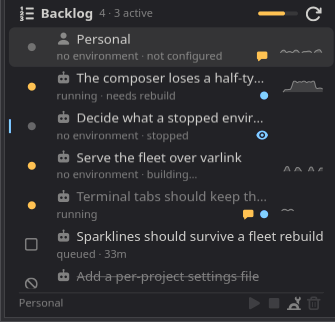
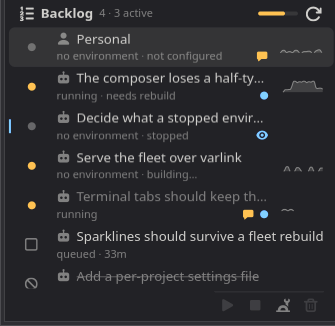
The intervention bar is four square buttons, and one check shows them all
Two refinements from watching it (David, 2026-09-09).

**The bar is one row of narrow square buttons, nothing else.** No subject
line and no close box: the checks and the selection are on screen
directly above it, so a label restating them spends a row of a panel that
has none to spare, and unchecking is how the bar goes away. Square rather
than the header's circles, because four of them sitting together are a
toolbar, and a row of circles reads as four separate controls.

**Checking one row shows the boxes on all of them.** The list is either
in a checking mood or it is not; showing a box only where it was checked
made the other rows read as unavailable when any of them can be checked
too. `sync_check_slots` is the resting state and runs after every render,
which is what the first attempt was missing — the probe showed one
checkbox and five dots.

The slot list is cleared with the rows it belongs to, or it would flip
stacks that are no longer on screen and grow once per render for the life
of the window.

diff --git a/crates/taste-app/src/backlog.rs b/crates/taste-app/src/backlog.rs
@@ -763,10 +763,16 @@ pub struct BacklogPanel {
     /// it can only ever mean one row, and an intervention that wants three
     /// environments needs somewhere else to say so.
     checked: RefCell<std::collections::HashSet<String>>,
-    /// The bottom-anchored bar the interventions live on, and the line on
-    /// it saying what they will act on.
+    /// The bottom-anchored bar the interventions live on.
     intervention_bar: gtk::Box,
-    intervention_subject: gtk::Label,
+    /// Every row's status/checkbox slot, rebuilt with the rows.
+    ///
+    /// Held so that checking ONE row can show the boxes on all of them:
+    /// once the list is in a checking mood it says so everywhere, or the
+    /// unchecked rows read as unavailable (David, 2026-09-09: "when one
+    /// env/issue is checked, the whole set switches to showing the check
+    /// boxes, whether checked or not").
+    check_slots: RefCell<Vec<gtk::Stack>>,
     start_button: gtk::Button,
     stop_button: gtk::Button,
     rebuild_button: gtk::Button,
@@ -1006,28 +1012,29 @@ impl BacklogPanel {
         // thing directly under it. Hidden is the resting state, so the
         // panel gives the row list every pixel until an intervention is
         // actually on the table.
-        let intervention_subject = gtk::Label::builder()
-            .xalign(0.0)
-            .hexpand(true)
-            .ellipsize(gtk::pango::EllipsizeMode::End)
-            .css_classes(["caption", "dim-label"])
-            .build()
-            .full_text_on_hover();
+        // One row of narrow square buttons and nothing else (David,
+        // 2026-09-09: "just have a single row with icon-based
+        // interventions … no close box or separate row with the selection
+        // count"). No subject line: the checks and the selection are on
+        // screen directly above, so a label restating them spends a row of
+        // a panel that has none to spare — and no close box, because
+        // unchecking is how this goes away.
         let intervention_bar = gtk::Box::builder()
             .orientation(gtk::Orientation::Horizontal)
-            .spacing(0)
+            .spacing(2)
+            .halign(gtk::Align::End)
             .css_classes(["intervention-bar"])
             .visible(false)
             .build();
         intervention_bar.set_margin_start(crate::filetree::CHROME_INSET);
         intervention_bar.set_margin_end(crate::filetree::CHROME_INSET);
-        intervention_bar.set_margin_top(4);
-        intervention_bar.set_margin_bottom(4);
-        intervention_bar.append(&intervention_subject);
-        intervention_bar.append(&start_button);
-        intervention_bar.append(&stop_button);
-        intervention_bar.append(&rebuild_button);
-        intervention_bar.append(&delete_button);
+        intervention_bar.set_margin_top(3);
+        intervention_bar.set_margin_bottom(3);
+        for button in [&start_button, &stop_button, &rebuild_button, &delete_button] {
+            button.remove_css_class("circular");
+            button.add_css_class("intervention-button");
+            intervention_bar.append(button);
+        }
         body.append(&intervention_bar);
         crate::filetree::wire_collapse(&header, &body);
         // Folded, the header keeps its facts and loses its actions: Start,
@@ -1064,7 +1071,7 @@ impl BacklogPanel {
             slot: slot.clone(),
             checked: RefCell::new(std::collections::HashSet::new()),
             intervention_bar: intervention_bar.clone(),
-            intervention_subject: intervention_subject.clone(),
+            check_slots: RefCell::new(Vec::new()),
             results: results.clone(),
             list_rows: Cell::new(1),
             start_button: start_button.clone(),
@@ -1537,6 +1544,10 @@ impl BacklogPanel {
         if *self.shown.borrow() == rows && !self.list_is_empty_but_should_not_be(&rows) {
             return;
         }
+        // The slots belong to the rows being replaced below; holding the
+        // old ones would flip stacks that are no longer on screen and grow
+        // this list once per render for the life of the window.
+        self.check_slots.borrow_mut().clear();
         if self.menu_is_open() {
             self.render_deferred.set(true);
             return;
@@ -1722,6 +1733,9 @@ impl BacklogPanel {
             self.reveal_next.borrow_mut().take();
             self.scroll_to(&row);
         }
+        // After the rows: the slots were just rebuilt, and whether they
+        // show boxes is a property of the LIST, not of each row.
+        self.sync_check_slots();
         self.sync_actions();
         self.draw_activity();
     }
@@ -1827,15 +1841,14 @@ impl BacklogPanel {
             // away to press the button it is for.
             let weak = Rc::downgrade(self);
             let id = row.id.clone();
-            let stack = slot_stack.clone();
             check.connect_toggled(move |check| {
                 let Some(panel) = weak.upgrade() else { return };
                 if check.is_active() {
                     panel.checked.borrow_mut().insert(id.clone());
                 } else {
                     panel.checked.borrow_mut().remove(&id);
-                    stack.set_visible_child_name("status");
                 }
+                panel.sync_check_slots();
                 panel.sync_actions();
             });
         }
@@ -1846,14 +1859,21 @@ impl BacklogPanel {
             motion.connect_enter(move |_, _, _| {
                 stack.set_visible_child_name("check");
             });
+            let weak = Rc::downgrade(self);
             let stack = slot_stack.clone();
             motion.connect_leave(move |_| {
-                if !check.is_active() {
+                // The box stays when this row is checked, and when ANY row
+                // is: the list is either showing boxes or it is not.
+                let checking = weak
+                    .upgrade()
+                    .is_some_and(|panel| !panel.checked.borrow().is_empty());
+                if !check.is_active() && !checking {
                     stack.set_visible_child_name("status");
                 }
             });
             box_.add_controller(motion);
         }
+        self.check_slots.borrow_mut().push(slot_stack.clone());
         box_.append(&crate::filetree::leading_slot(&slot_stack));
         // Whose row it is, at the title's left: the human's for Personal,
         // an agent's for every issue — and the agent glyph carries what the
@@ -2595,6 +2615,28 @@ impl BacklogPanel {
         self.rerender();
     }
 
+    /// Show the boxes on every row, or on none — the list is either in a
+    /// checking mood or it is not.
+    ///
+    /// A half-checked list that showed a box only where it was checked
+    /// made the other rows look unavailable, when any of them can be
+    /// checked too. Rows under the pointer are handled by their own motion
+    /// controller; this is the resting state.
+    fn sync_check_slots(&self) {
+        let checking = !self.checked.borrow().is_empty();
+        for stack in self.check_slots.borrow().iter() {
+            let checked_here = stack
+                .child_by_name("check")
+                .and_then(|child| child.downcast::<gtk::CheckButton>().ok())
+                .is_some_and(|check| check.is_active());
+            stack.set_visible_child_name(if checking || checked_here {
+                "check"
+            } else {
+                "status"
+            });
+        }
+    }
+
     /// Forget every check. Called when an intervention has run: the marks
     /// said what to act on, the acting is done, and leaving them set is how
     /// a second press acts on a batch nobody meant to name twice.
@@ -2625,11 +2667,6 @@ impl BacklogPanel {
 
         // No subject, no bar.
         self.intervention_bar.set_visible(!rows.is_empty());
-        self.intervention_subject.set_label(&match rows.as_slice() {
-            [] => String::new(),
-            [one] => one.title.clone(),
-            many => format!("{} selected", many.len()),
-        });
 
         let any = |f: &dyn Fn(&Row) -> bool| rows.iter().any(|row| f(row));
         self.start_button.set_sensitive(any(&|row| {

diff --git a/crates/taste-app/src/main.rs b/crates/taste-app/src/main.rs
@@ -560,6 +560,12 @@ fn main() -> glib::ExitCode {
                     the same way. */\n\
                  .intervention-bar { border-top: 1px solid \
                    alpha(currentColor, 0.12); }\n\
+                 /* Narrow and square, not the header's circles: four of \
+                    them sit together as a toolbar, and a row of circles \
+                    reads as four separate controls. */\n\
+                 .intervention-bar button.intervention-button { \
+                   min-width: 26px; min-height: 26px; padding: 0; \
+                   border-radius: 6px; }\n\
                  /* The Logs and Ports sections' rows (filetree.rs) share \
                     the backlog's column and wear its exact row geometry, \
                     so a dot in one list sits over a dot in the other. */\n\

diff --git a/docs/ENVIRONMENTS.md b/docs/ENVIRONMENTS.md
@@ -130,8 +130,17 @@ environments needs somewhere else to say so. Checks win over the
 selection whenever there are any — checking is deliberate, while the
 selection moves whenever the user looks at a row.
 
+The bar is one row of narrow square buttons and nothing else — no
+subject line and no close box (David, 2026-09-09). The checks and the
+selection are on screen directly above it, so a label restating them
+spends a row of a panel that has none to spare, and unchecking is how the
+bar goes away.
+
 The glyph and the box share a `GtkStack` sized to the wider of them, so
-the title beside them does not move when the pointer arrives. A button is
+the title beside them does not move when the pointer arrives. **Checking
+one row shows the boxes on all of them**: the list is either in a
+checking mood or it is not, and a half-checked list that showed a box
+only where it was checked made the other rows read as unavailable. A button is
 live when its action applies to at least one target and then acts on
 every target it applies to; all-or-nothing would grey out Stop because
 one of four checked environments happened to be down already. Checks
